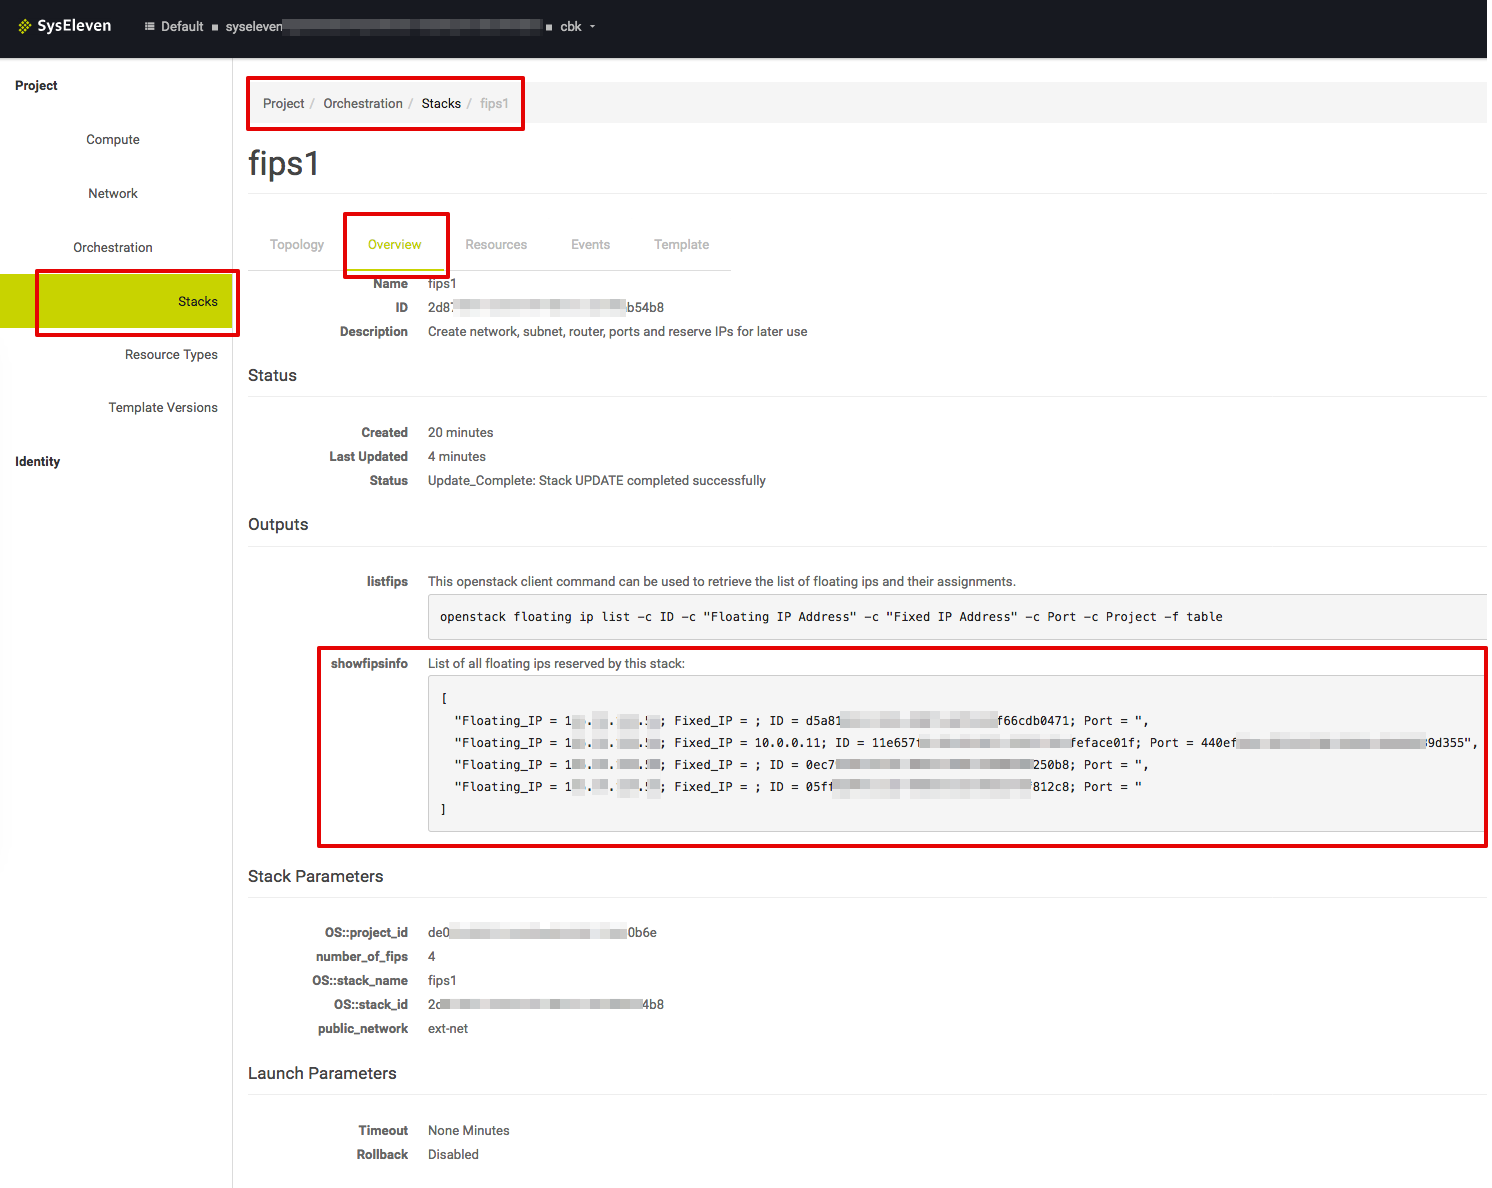
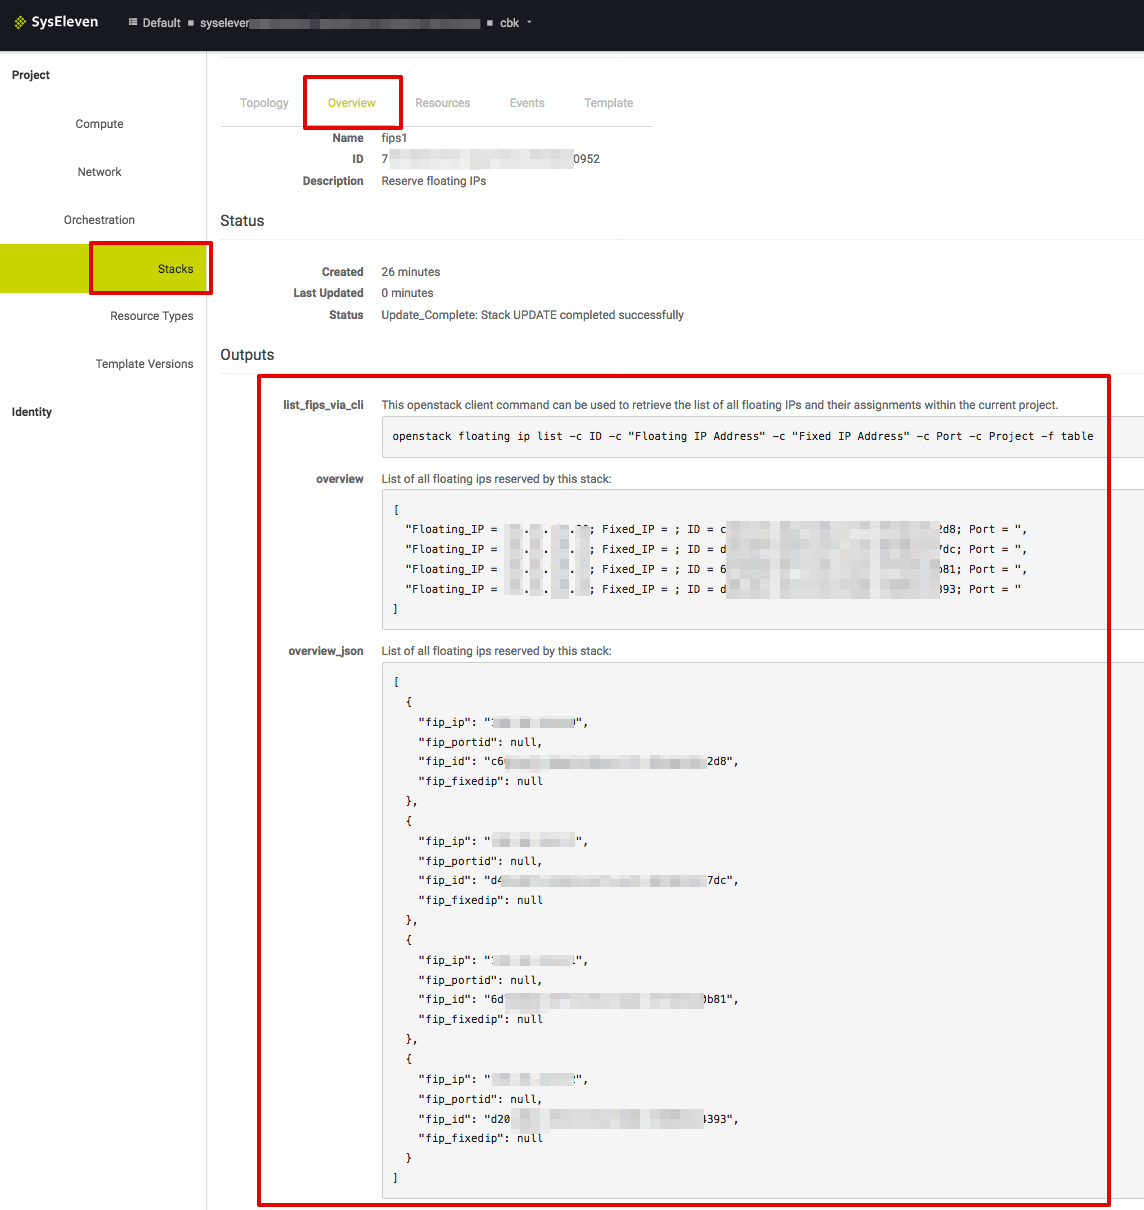
improve fips output and update screenshot

diff --git a/reserve_floating_ips/README.md b/reserve_floating_ips/README.md
@@ -44,5 +44,8 @@ Defines number of fips to be created.
 **list_fips_via_cli**  
 Provides the command that can be used to show a list of all floating IPs within the current project.
 
-**fips_info**  
+**overview**  
 Shows a table containing all reserved FIPs and their current association status.
+
+**overview_json**  
+Shows json code containing all reserved FIPs and their current association status.
